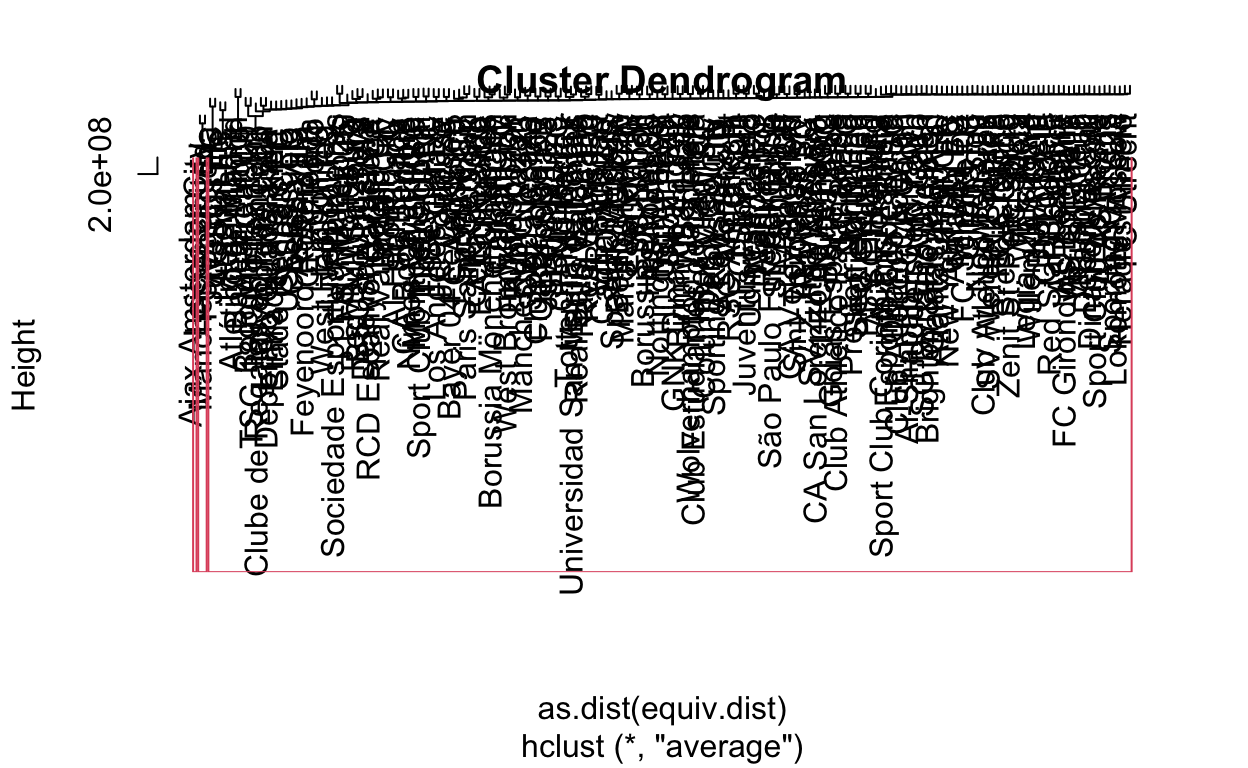
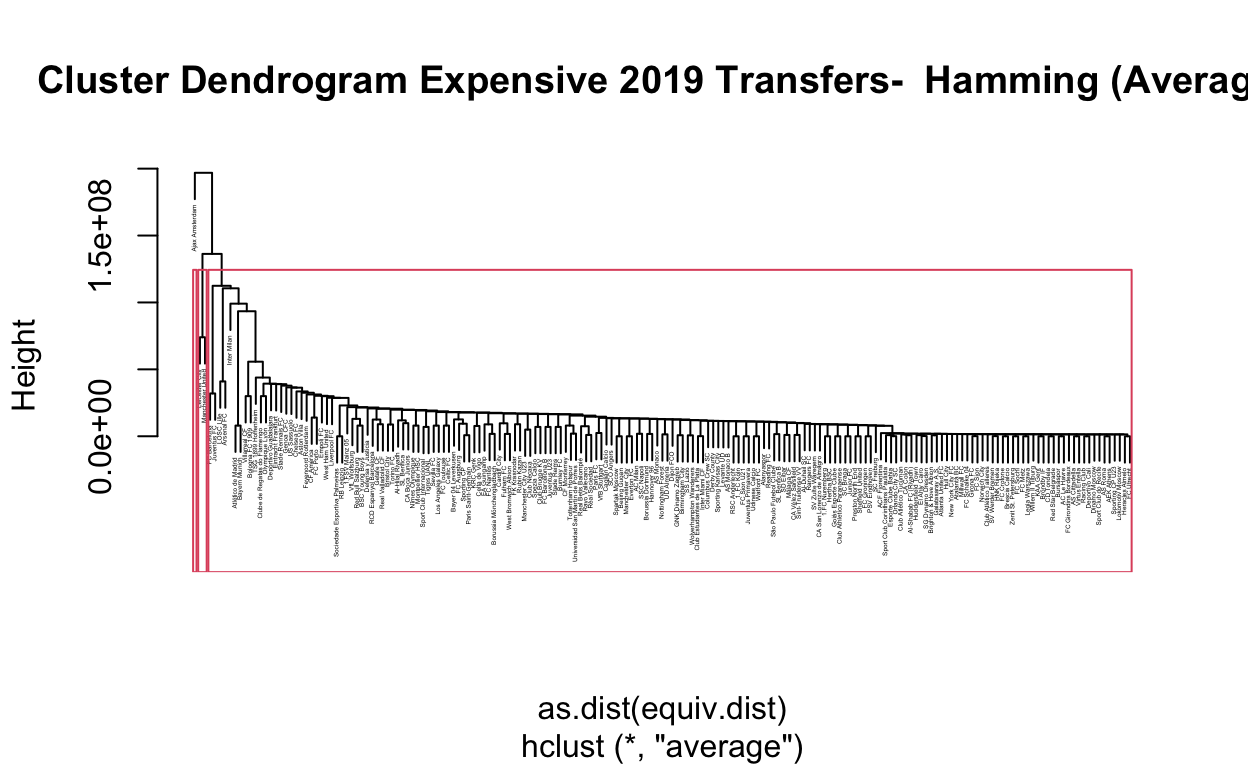
clean dendograms

Changed region(s): [[0.0312, 0.0625, 1.0, 0.7812], [0.0625, 0.1562, 0.0938, 0.375], [0.0625, 0.5, 0.0938, 0.6562]]

diff --git a/docs/posts/2022-05-09-structural-equivalence/index.html b/docs/posts/2022-05-09-structural-equivalence/index.html
@@ -94,7 +94,7 @@ code span.wa { color: #5e5e5e; font-style: italic; } /* Warning */
 <!--  https://schema.org/Article -->
 <meta property="article:published" itemprop="datePublished" content="2022-05-09"/>
 <meta property="article:created" itemprop="dateCreated" content="2022-05-09"/>
-<meta name="article:author" content="Isha Akshita Mahajan, Ankit Kumar"/>
+<meta name="article:author" content="Isha Mahajan, Ankit Kumar"/>
 
 <!--  https://developers.facebook.com/docs/sharing/webmasters#markup -->
 <meta property="og:title" content="Football Networks: Structural Equivalence and Blockmodels"/>
@@ -112,7 +112,7 @@ code span.wa { color: #5e5e5e; font-style: italic; } /* Warning */
   <!--radix_placeholder_rmarkdown_metadata-->
 
 <script type="text/json" id="radix-rmarkdown-metadata">
-{"type":"list","attributes":{"names":{"type":"character","attributes":{},"value":["title","description","author","date","output"]}},"value":[{"type":"character","attributes":{},"value":["Structural Equivalence and Blockmodels"]},{"type":"character","attributes":{},"value":["Denodgrams and blocks"]},{"type":"list","attributes":{},"value":[{"type":"list","attributes":{"names":{"type":"character","attributes":{},"value":["name","affiliation"]}},"value":[{"type":"character","attributes":{},"value":["Isha Akshita Mahajan, Ankit Kumar"]},{"type":"character","attributes":{},"value":["UMass Amherst"]}]}]},{"type":"character","attributes":{},"value":["2022-05-09"]},{"type":"list","attributes":{"names":{"type":"character","attributes":{},"value":["distill::distill_article"]}},"value":[{"type":"list","attributes":{"names":{"type":"character","attributes":{},"value":["self_contained"]}},"value":[{"type":"logical","attributes":{},"value":[false]}]}]}]}
+{"type":"list","attributes":{"names":{"type":"character","attributes":{},"value":["title","description","author","date","output"]}},"value":[{"type":"character","attributes":{},"value":["Structural Equivalence and Blockmodels"]},{"type":"character","attributes":{},"value":["Denodgrams and blocks"]},{"type":"list","attributes":{},"value":[{"type":"list","attributes":{"names":{"type":"character","attributes":{},"value":["name","affiliation"]}},"value":[{"type":"character","attributes":{},"value":["Isha Mahajan, Ankit Kumar"]},{"type":"character","attributes":{},"value":["UMass Amherst"]}]}]},{"type":"character","attributes":{},"value":["2022-05-09"]},{"type":"list","attributes":{"names":{"type":"character","attributes":{},"value":["distill::distill_article"]}},"value":[{"type":"list","attributes":{"names":{"type":"character","attributes":{},"value":["self_contained"]}},"value":[{"type":"logical","attributes":{},"value":[false]}]}]}]}
 </script>
 <!--/radix_placeholder_rmarkdown_metadata-->
   
@@ -2065,7 +2065,7 @@ document.addEventListener('DOMContentLoaded', function() {
 <!--radix_placeholder_front_matter-->
 
 <script id="distill-front-matter" type="text/json">
-{"title":"Structural Equivalence and Blockmodels","description":"Denodgrams and blocks","authors":[{"author":"Isha Akshita Mahajan, Ankit Kumar","authorURL":"#","affiliation":"UMass Amherst","affiliationURL":"#","orcidID":""}],"publishedDate":"2022-05-09T00:00:00.000-04:00","citationText":"Kumar, 2022"}
+{"title":"Structural Equivalence and Blockmodels","description":"Denodgrams and blocks","authors":[{"author":"Isha Mahajan, Ankit Kumar","authorURL":"#","affiliation":"UMass Amherst","affiliationURL":"#","orcidID":""}],"publishedDate":"2022-05-09T00:00:00.000-04:00","citationText":"Kumar, 2022"}
 </script>
 
 <!--/radix_placeholder_front_matter-->
@@ -2095,7 +2095,7 @@ document.addEventListener('DOMContentLoaded', function() {
 </div>
 
 <div class="d-byline">
-  Isha Akshita Mahajan, Ankit Kumar  (UMass Amherst)
+  Isha Mahajan, Ankit Kumar  (UMass Amherst)
   
 <br/>2022-05-09
 </div>
@@ -2133,7 +2133,7 @@ document.addEventListener('DOMContentLoaded', function() {
 <span class='fu'><a href='https://rdrr.io/r/base/summary.html'>summary</a></span><span class='op'>(</span><span class='va'>ig.exp.19</span><span class='op'>)</span>
 </code></pre>
 </div>
-<pre><code>IGRAPH 65538f4 DNW- 185 157 -- 
+<pre><code>IGRAPH 29905b6 DNW- 185 157 -- 
 + attr: name (v/c), name (e/c), weight (e/n)</code></pre>
 <div class="sourceCode">
 <pre class="sourceCode r"><code class="sourceCode r"><span class='va'>network.exp.19</span> <span class='op'>&lt;-</span> <span class='fu'>intergraph</span><span class='fu'>::</span><span class='fu'><a href='https://rdrr.io/pkg/intergraph/man/asNetwork.html'>asNetwork</a></span><span class='op'>(</span><span class='va'>ig.exp.19</span><span class='op'>)</span> 
@@ -2161,7 +2161,7 @@ document.addEventListener('DOMContentLoaded', function() {
 <div class="sourceCode">
 <pre class="sourceCode r"><code class="sourceCode r"><span class='va'>matrix.exp.19</span> <span class='op'>&lt;-</span> <span class='fu'><a href='https://rdrr.io/r/base/matrix.html'>as.matrix</a></span><span class='op'>(</span><span class='fu'><a href='https://rdrr.io/pkg/igraph/man/as_adjacency_matrix.html'>as_adjacency_matrix</a></span><span class='op'>(</span><span class='va'>ig.exp.19</span>, attr <span class='op'>=</span> <span class='st'>"weight"</span><span class='op'>)</span><span class='op'>)</span>
 <span class='va'>transfer.se.exp</span><span class='op'>&lt;-</span><span class='fu'><a href='https://rdrr.io/pkg/sna/man/equiv.clust.html'>equiv.clust</a></span><span class='op'>(</span><span class='va'>matrix.exp.19</span>, equiv.fun<span class='op'>=</span><span class='st'>"sedist"</span>, cluster.method<span class='op'>=</span><span class='st'>"average"</span>, method<span class='op'>=</span><span class='st'>"hamming"</span>,mode<span class='op'>=</span><span class='st'>"graph"</span><span class='op'>)</span>
-<span class='fu'><a href='https://rdrr.io/r/graphics/plot.default.html'>plot</a></span><span class='op'>(</span><span class='va'>transfer.se.exp</span>,labels<span class='op'>=</span><span class='va'>transfer.se.exp</span><span class='op'>$</span><span class='va'>glabels</span><span class='op'>)</span>
+<span class='fu'><a href='https://rdrr.io/r/graphics/plot.default.html'>plot</a></span><span class='op'>(</span><span class='va'>transfer.se.exp</span>,labels<span class='op'>=</span><span class='va'>transfer.se.exp</span><span class='op'>$</span><span class='va'>glabels</span>, cex <span class='op'>=</span> <span class='fl'>0.2</span>, main<span class='op'>=</span><span class='st'>"Cluster Dendrogram Expensive 2019 Transfers-  Hamming (Average)"</span><span class='op'>)</span>
 <span class='fu'><a href='https://rdrr.io/r/stats/rect.hclust.html'>rect.hclust</a></span><span class='op'>(</span><span class='va'>transfer.se.exp</span><span class='op'>$</span><span class='va'>cluster</span>, k <span class='op'>=</span> <span class='fl'>3</span><span class='op'>)</span> 
 </code></pre>
 </div>
@@ -2188,7 +2188,7 @@ document.addEventListener('DOMContentLoaded', function() {
 <span class='fu'><a href='https://rdrr.io/r/base/summary.html'>summary</a></span><span class='op'>(</span><span class='va'>ig.med.19</span><span class='op'>)</span>
 </code></pre>
 </div>
-<pre><code>IGRAPH 0018b90 DNW- 461 718 -- 
+<pre><code>IGRAPH 3100158 DNW- 461 718 -- 
 + attr: name (v/c), name (e/c), weight (e/n)</code></pre>
 <div class="sourceCode">
 <pre class="sourceCode r"><code class="sourceCode r"><span class='va'>network.med.19</span> <span class='op'>&lt;-</span> <span class='fu'>intergraph</span><span class='fu'>::</span><span class='fu'><a href='https://rdrr.io/pkg/intergraph/man/asNetwork.html'>asNetwork</a></span><span class='op'>(</span><span class='va'>ig.med.19</span><span class='op'>)</span> 
@@ -2216,7 +2216,7 @@ document.addEventListener('DOMContentLoaded', function() {
 <div class="sourceCode">
 <pre class="sourceCode r"><code class="sourceCode r"><span class='va'>matrix.med.19</span> <span class='op'>&lt;-</span> <span class='fu'><a href='https://rdrr.io/r/base/matrix.html'>as.matrix</a></span><span class='op'>(</span><span class='fu'><a href='https://rdrr.io/pkg/igraph/man/as_adjacency_matrix.html'>as_adjacency_matrix</a></span><span class='op'>(</span><span class='va'>ig.med.19</span>, attr <span class='op'>=</span> <span class='st'>"weight"</span><span class='op'>)</span><span class='op'>)</span>
 <span class='va'>transfer.se.med</span><span class='op'>&lt;-</span><span class='fu'><a href='https://rdrr.io/pkg/sna/man/equiv.clust.html'>equiv.clust</a></span><span class='op'>(</span><span class='va'>matrix.med.19</span>, equiv.fun<span class='op'>=</span><span class='st'>"sedist"</span>, cluster.method<span class='op'>=</span><span class='st'>"average"</span>, method<span class='op'>=</span><span class='st'>"hamming"</span>,mode<span class='op'>=</span><span class='st'>"graph"</span><span class='op'>)</span>
-<span class='fu'><a href='https://rdrr.io/r/graphics/plot.default.html'>plot</a></span><span class='op'>(</span><span class='va'>transfer.se.med</span>,labels<span class='op'>=</span><span class='va'>transfer.se.med</span><span class='op'>$</span><span class='va'>glabels</span><span class='op'>)</span>
+<span class='fu'><a href='https://rdrr.io/r/graphics/plot.default.html'>plot</a></span><span class='op'>(</span><span class='va'>transfer.se.med</span>,labels<span class='op'>=</span><span class='va'>transfer.se.med</span><span class='op'>$</span><span class='va'>glabels</span>, cex <span class='op'>=</span> <span class='fl'>0.2</span>, main<span class='op'>=</span><span class='st'>"Cluster Dendrogram Medium 2019 Transfers - Hamming (Average)"</span><span class='op'>)</span>
 <span class='fu'><a href='https://rdrr.io/r/stats/rect.hclust.html'>rect.hclust</a></span><span class='op'>(</span><span class='va'>transfer.se.med</span><span class='op'>$</span><span class='va'>cluster</span>, k <span class='op'>=</span> <span class='fl'>3</span><span class='op'>)</span> 
 </code></pre>
 </div>
@@ -2243,7 +2243,7 @@ document.addEventListener('DOMContentLoaded', function() {
 <span class='fu'><a href='https://rdrr.io/r/base/summary.html'>summary</a></span><span class='op'>(</span><span class='va'>ig.sm.19</span><span class='op'>)</span>
 </code></pre>
 </div>
-<pre><code>IGRAPH 891a575 DNW- 283 312 -- 
+<pre><code>IGRAPH 7e5c9fc DNW- 283 312 -- 
 + attr: name (v/c), name (e/c), weight (e/n)</code></pre>
 <div class="sourceCode">
 <pre class="sourceCode r"><code class="sourceCode r"><span class='va'>network.sm.19</span> <span class='op'>&lt;-</span> <span class='fu'>intergraph</span><span class='fu'>::</span><span class='fu'><a href='https://rdrr.io/pkg/intergraph/man/asNetwork.html'>asNetwork</a></span><span class='op'>(</span><span class='va'>ig.sm.19</span><span class='op'>)</span> 
@@ -2271,7 +2271,7 @@ document.addEventListener('DOMContentLoaded', function() {
 <div class="sourceCode">
 <pre class="sourceCode r"><code class="sourceCode r"><span class='va'>matrix.sm.19</span> <span class='op'>&lt;-</span> <span class='fu'><a href='https://rdrr.io/r/base/matrix.html'>as.matrix</a></span><span class='op'>(</span><span class='fu'><a href='https://rdrr.io/pkg/igraph/man/as_adjacency_matrix.html'>as_adjacency_matrix</a></span><span class='op'>(</span><span class='va'>ig.sm.19</span>, attr <span class='op'>=</span> <span class='st'>"weight"</span><span class='op'>)</span><span class='op'>)</span>
 <span class='va'>transfer.se.sm</span><span class='op'>&lt;-</span><span class='fu'><a href='https://rdrr.io/pkg/sna/man/equiv.clust.html'>equiv.clust</a></span><span class='op'>(</span><span class='va'>matrix.sm.19</span>, equiv.fun<span class='op'>=</span><span class='st'>"sedist"</span>, cluster.method<span class='op'>=</span><span class='st'>"average"</span>, method<span class='op'>=</span><span class='st'>"hamming"</span>,mode<span class='op'>=</span><span class='st'>"graph"</span><span class='op'>)</span>
-<span class='fu'><a href='https://rdrr.io/r/graphics/plot.default.html'>plot</a></span><span class='op'>(</span><span class='va'>transfer.se.sm</span>,labels<span class='op'>=</span><span class='va'>transfer.se.sm</span><span class='op'>$</span><span class='va'>glabels</span><span class='op'>)</span>
+<span class='fu'><a href='https://rdrr.io/r/graphics/plot.default.html'>plot</a></span><span class='op'>(</span><span class='va'>transfer.se.sm</span>,labels<span class='op'>=</span><span class='va'>transfer.se.sm</span><span class='op'>$</span><span class='va'>glabels</span>,cex <span class='op'>=</span> <span class='fl'>0.2</span>, main<span class='op'>=</span><span class='st'>"Cluster Dendrogram Small 2019 Transfers - Hamming (Average)"</span><span class='op'>)</span>
 <span class='fu'><a href='https://rdrr.io/r/stats/rect.hclust.html'>rect.hclust</a></span><span class='op'>(</span><span class='va'>transfer.se.sm</span><span class='op'>$</span><span class='va'>cluster</span>, k <span class='op'>=</span> <span class='fl'>3</span><span class='op'>)</span> 
 </code></pre>
 </div>
